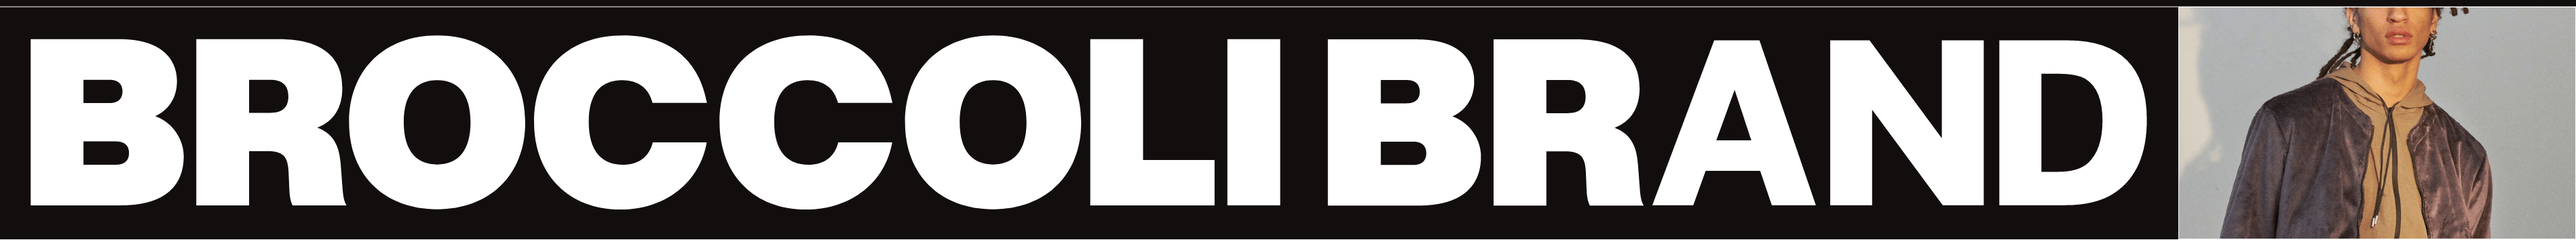
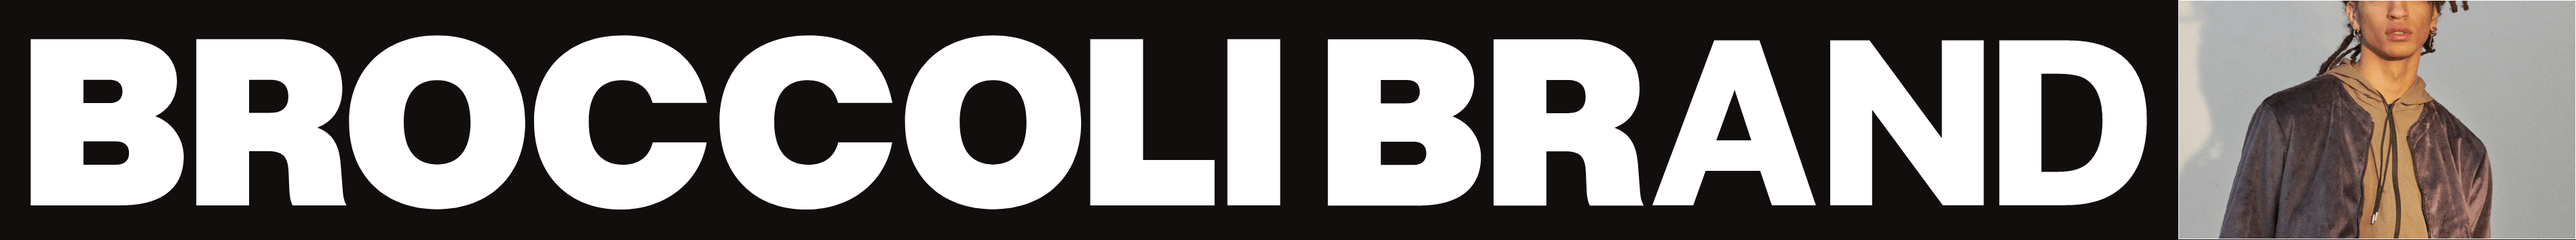
stable

Changed region(s): [[0.0, 0.0, 1.0, 1.0]]

diff --git a/src/components/Home/elements/Brand/index.tsx b/src/components/Home/elements/Brand/index.tsx
@@ -22,8 +22,12 @@ const Brand = () => {
 	return (
 		<section className={styles._brandContent}>
 			<div className={styles._horizontalScroll}>
-				<img id="element" style={{transform: `translate(-${pos}px)`}} src="images/backgrounds/Banner_animado1.png" alt="" />
-				<img style={{transform: `translate(calc(-3000px + ${pos}px))`}} src="images/backgrounds/Banner_animado2.png" alt="" />
+				<div className={styles._imageContainer}>
+					<img id="element" style={{transform: `translate(-${pos}px)`}} src="images/backgrounds/Banner_animado1.png" alt="" />
+				</div>
+				<div className={styles._imageContainer}>
+					<img style={{transform: `translate(calc(-3000px + ${pos}px))`}} src="images/backgrounds/Banner_animado2.png" alt="" />
+				</div>
 			</div>
 			<style jsx>
 			{`

diff --git a/src/components/Home/elements/Brand/styles.module.scss b/src/components/Home/elements/Brand/styles.module.scss
@@ -21,3 +21,7 @@
 ._horizontalScroll {
     overflow: hidden;
 }
+
+._imageContainer {
+    height: 22rem;
+}
